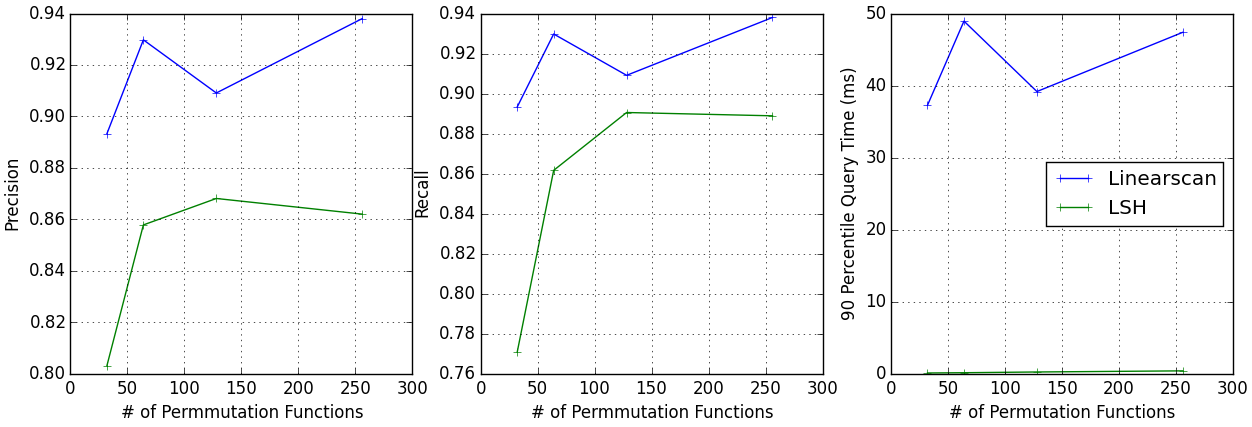
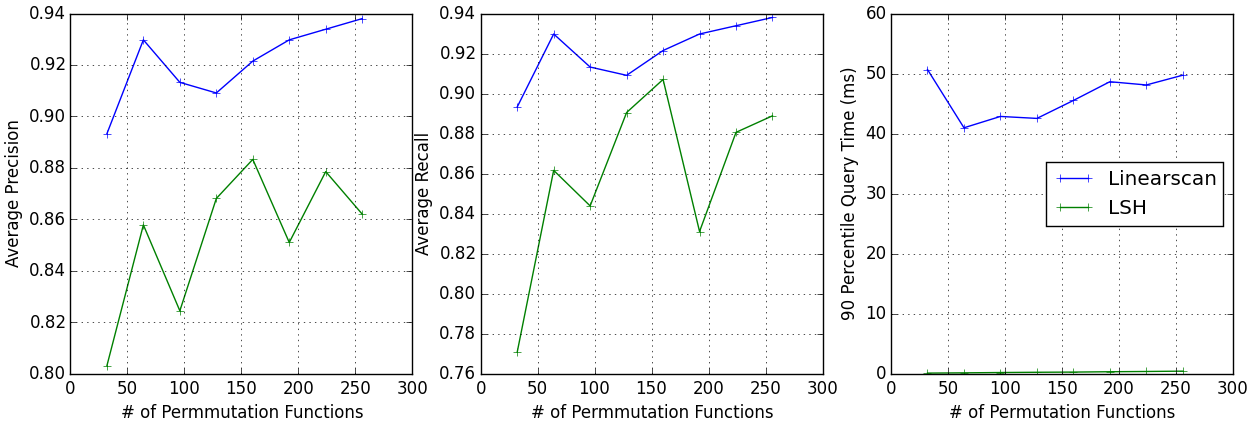
Update LSH plot

diff --git a/README.md b/README.md
@@ -176,7 +176,8 @@ I experimented with the
 [20 News Group Dataset](http://scikit-learn.org/stable/datasets/twenty_newsgroups.html),
 which has an average cardinality of 193 (3-shingles). 
 The average recall, average precision, and 90 percentile query time vs.
-`num_perm` are plotted below.
+`num_perm` are plotted below. See the `benchmark` directory for the experiment and
+plotting code.
 
 ![LSH Benchmark](https://github.com/ekzhu/datasketch/blob/master/lsh_benchmark.png)
 
